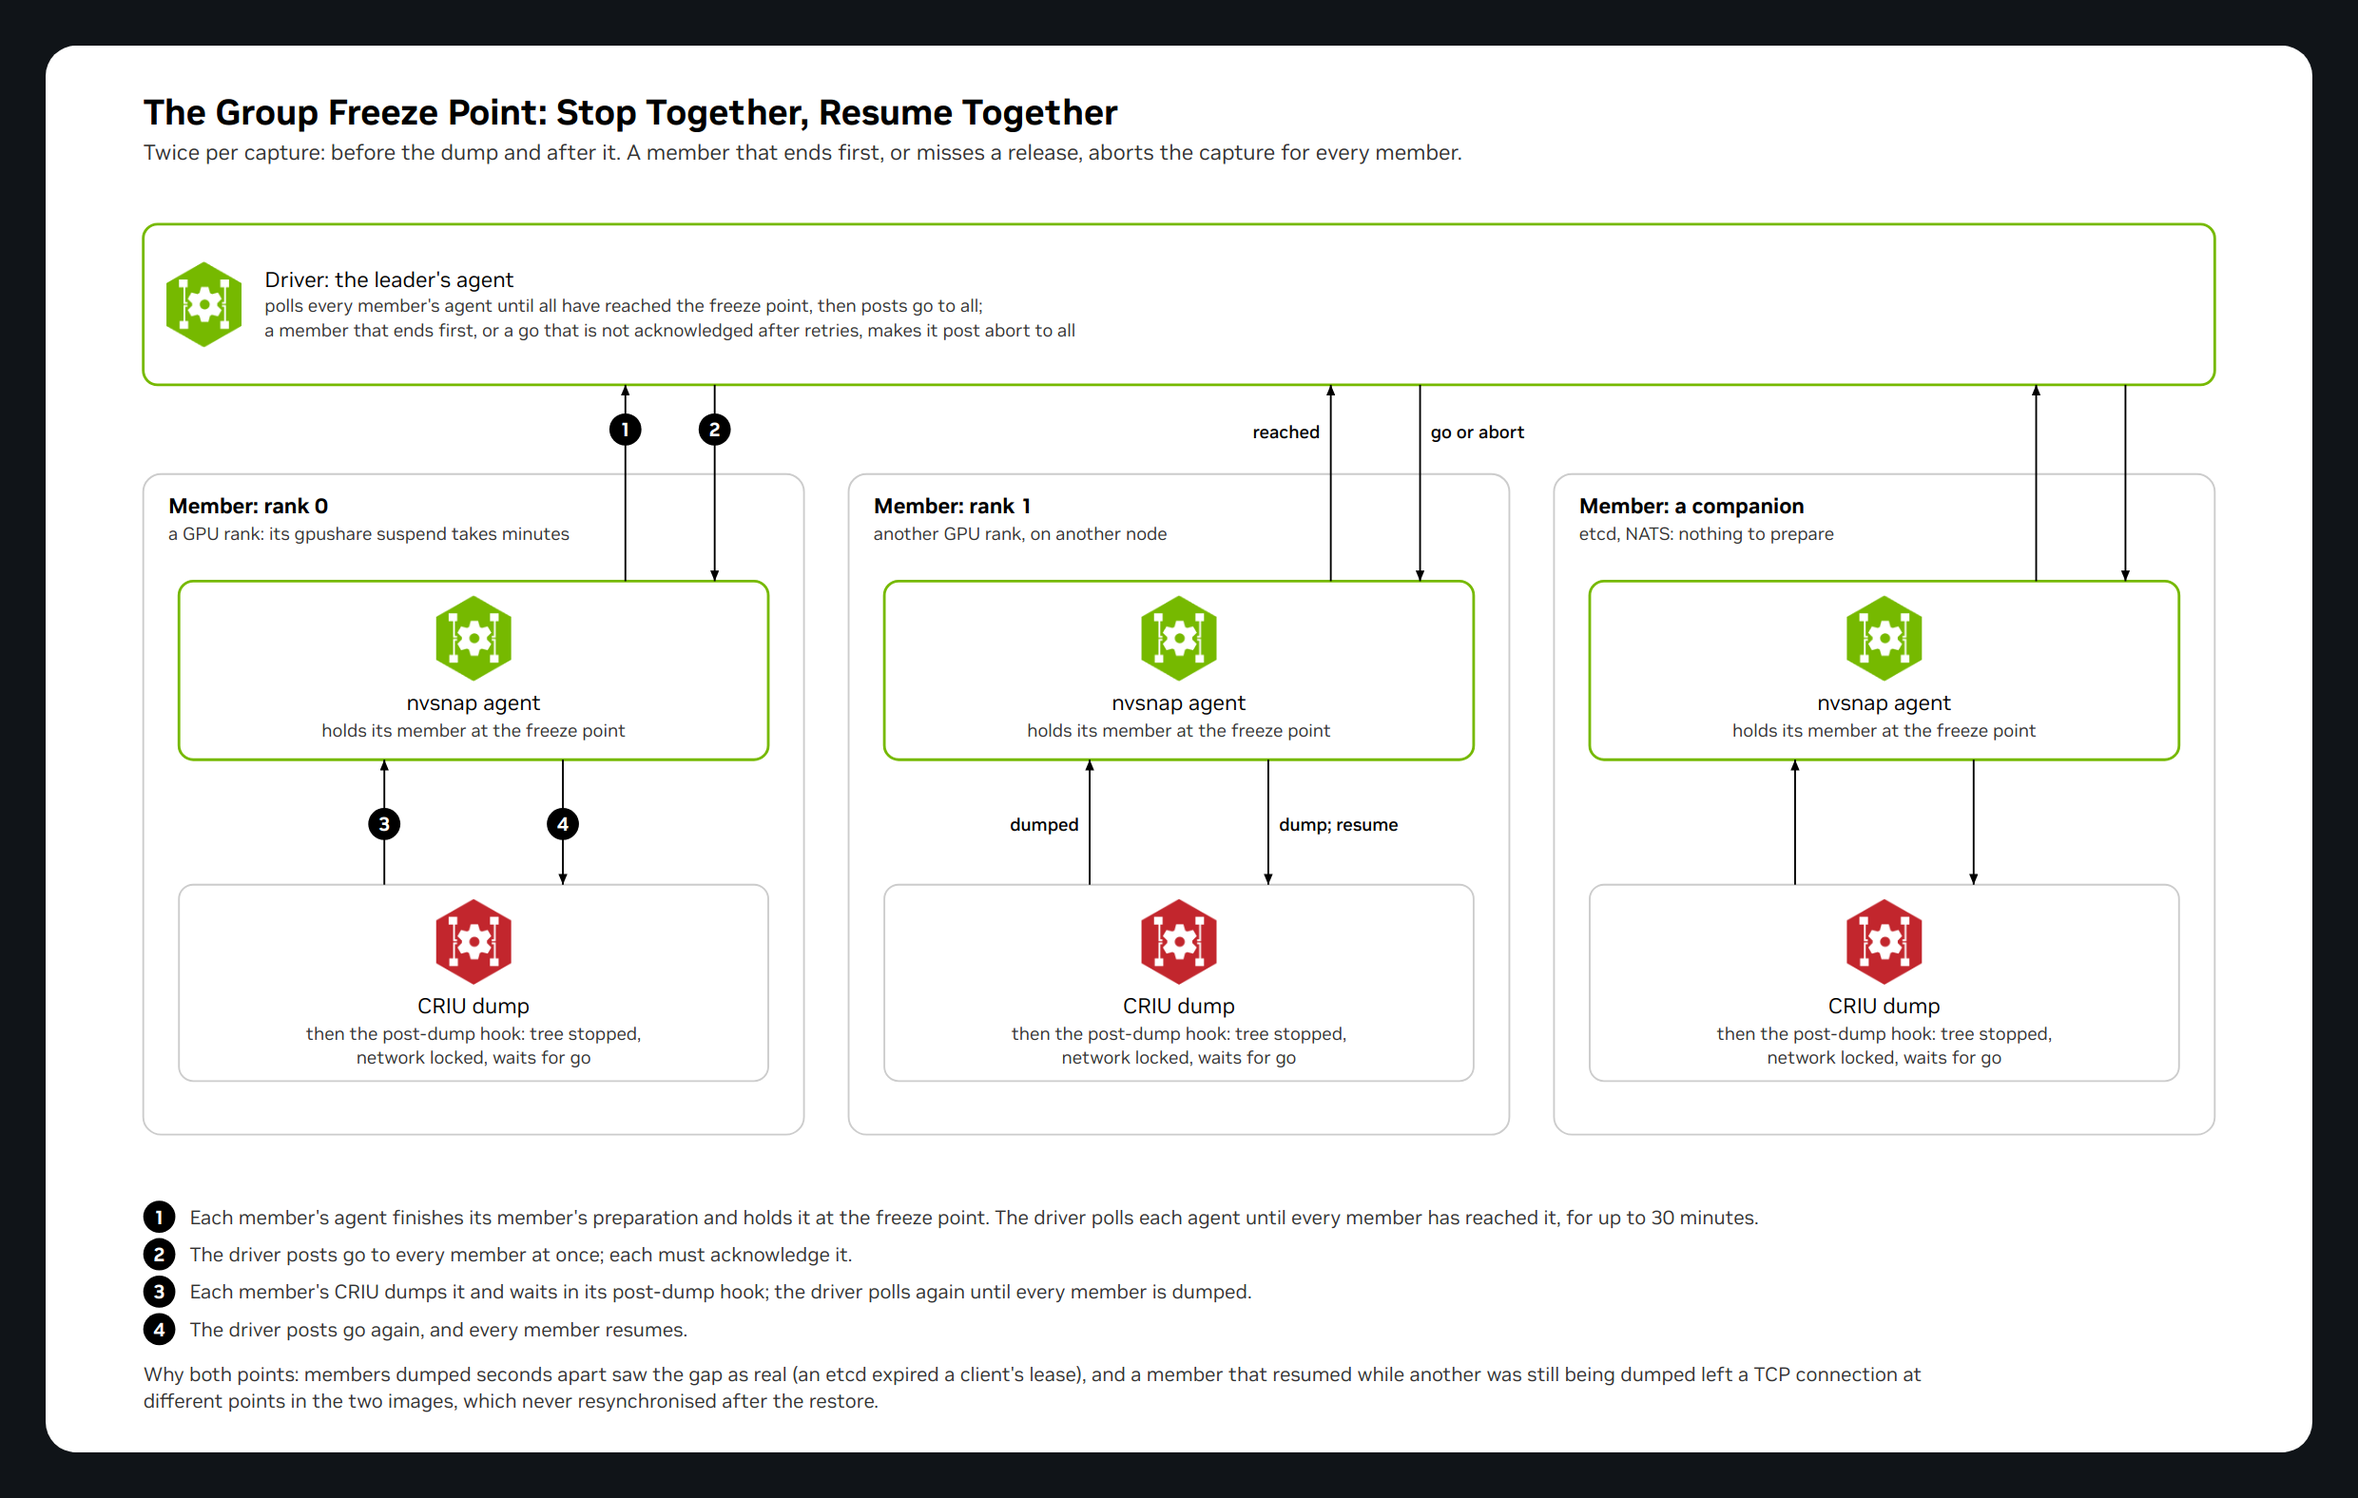
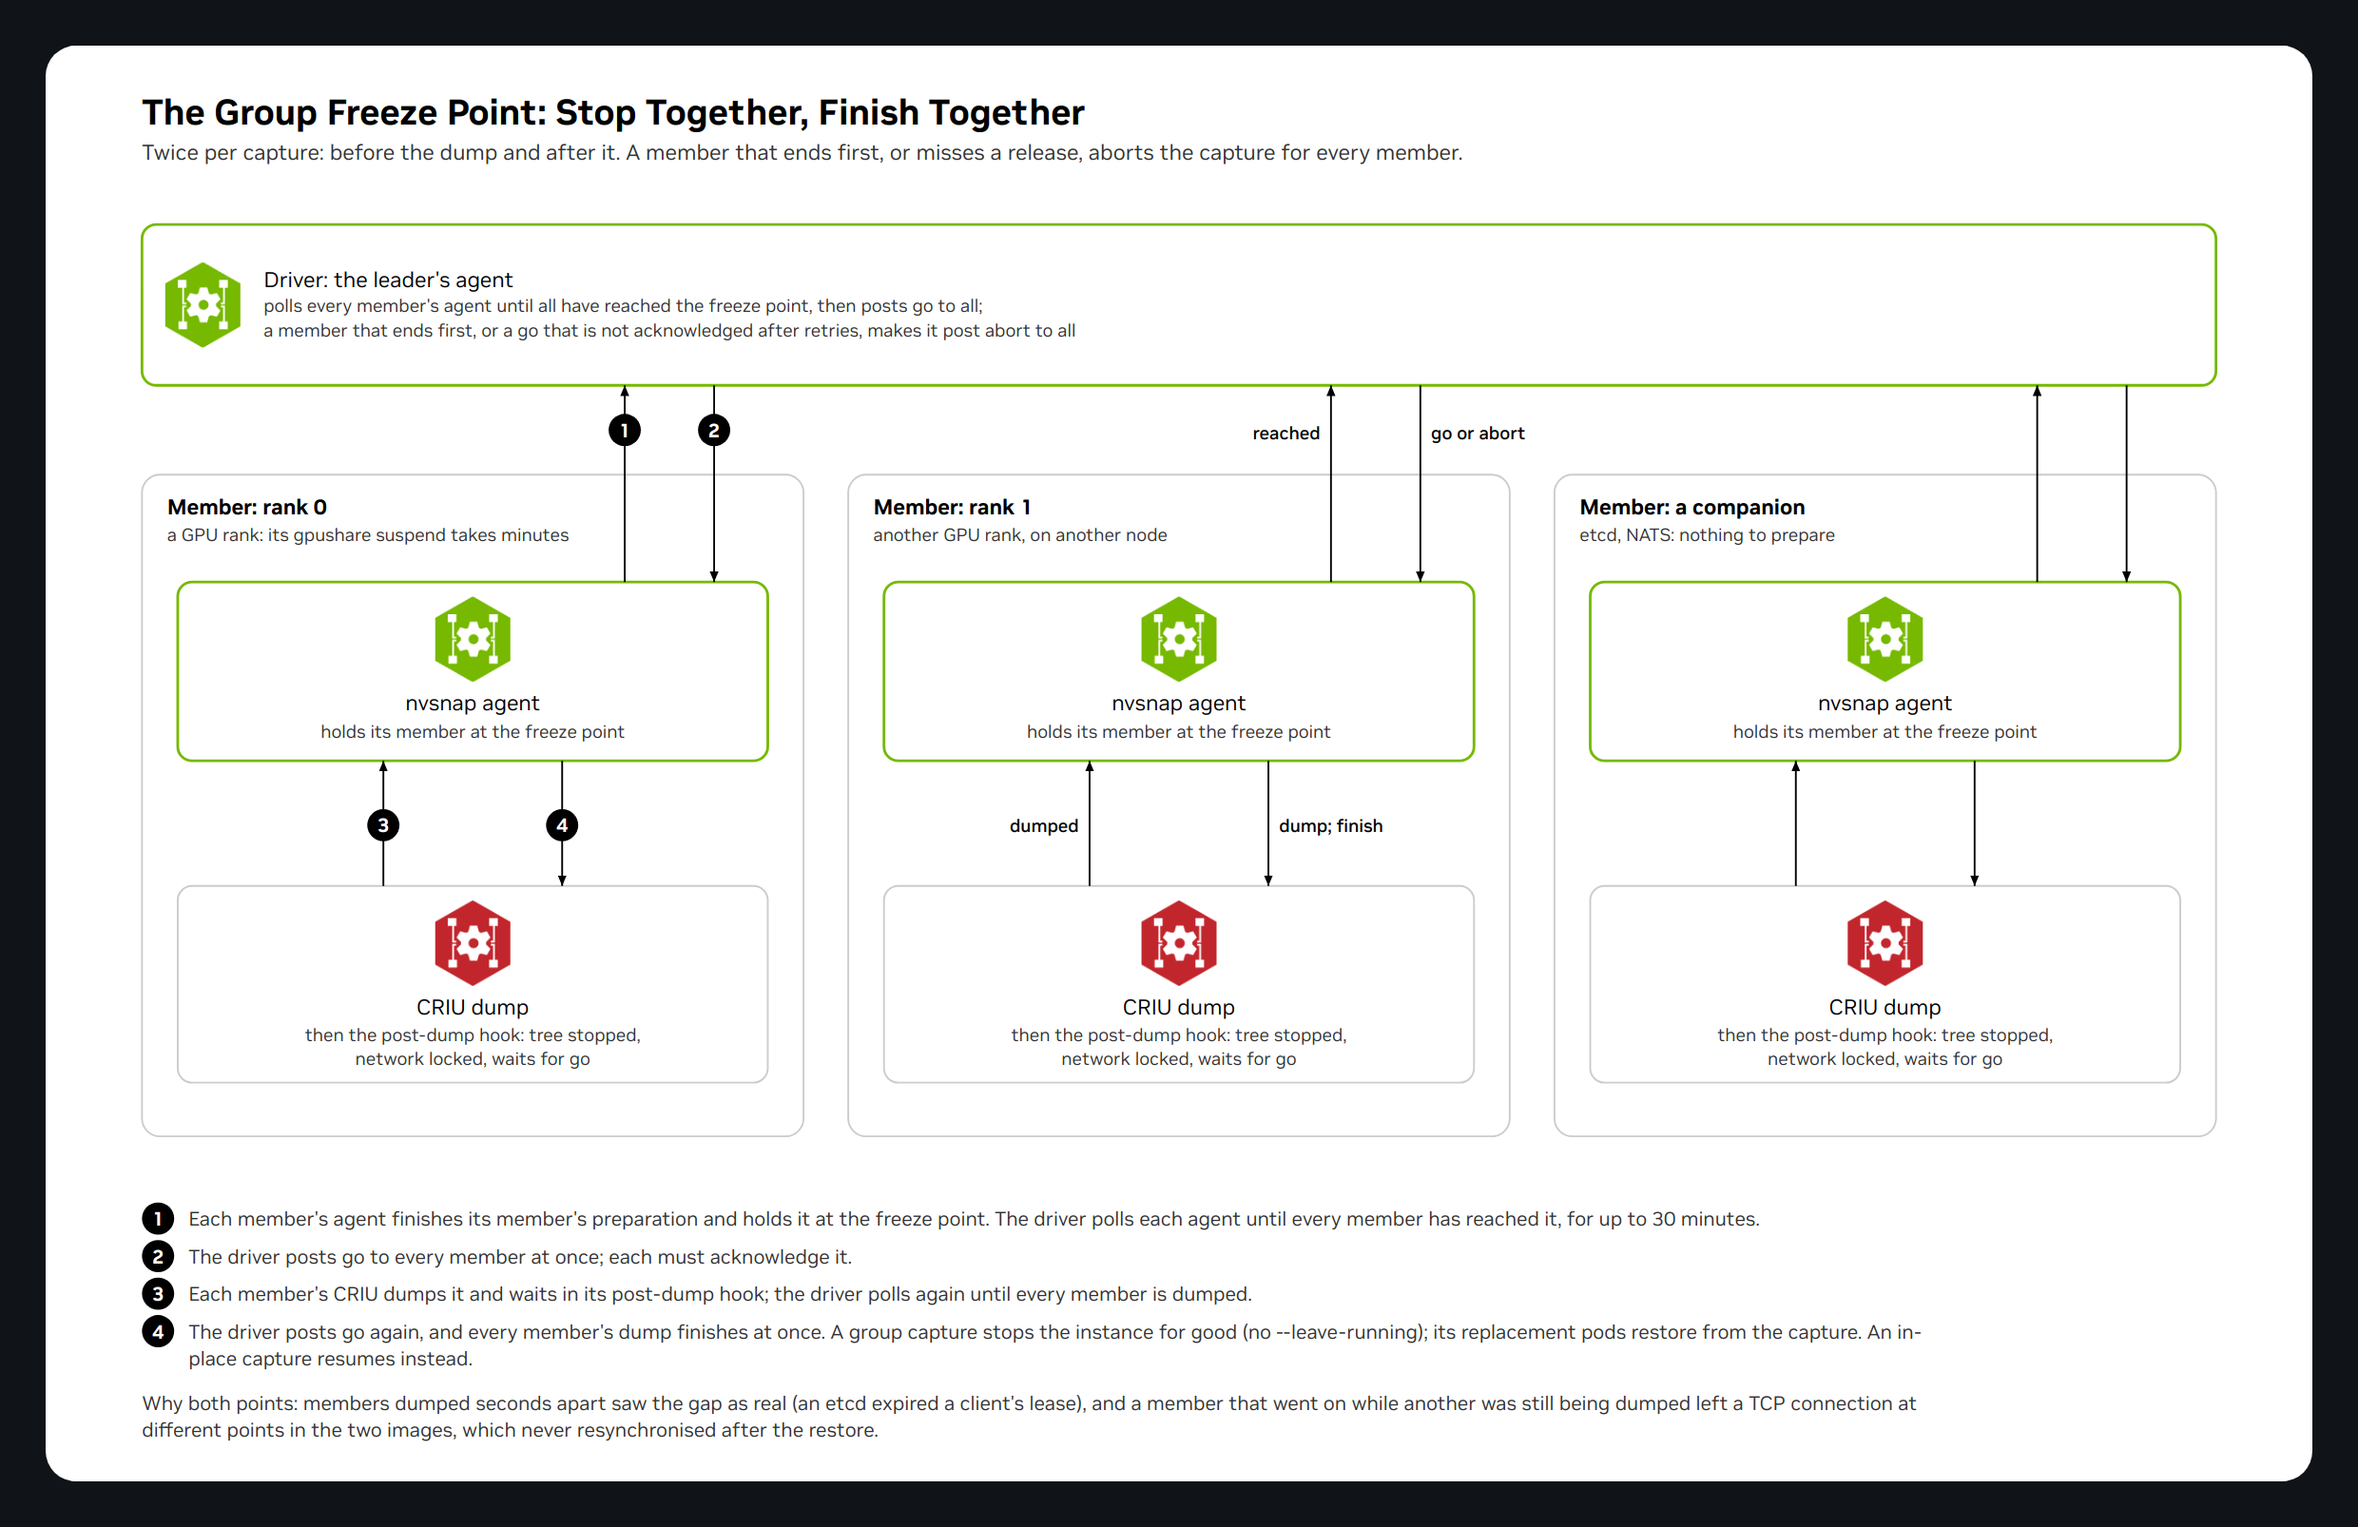
docs(nvsnap): a group capture finishes together, it does not resume
The group-freeze figure and the comment it was drawn from said every
member resumes after the post-dump release. A group capture stops the
instance for good (checkpointInstance: no --leave-running; its pods are
replaced by a restore), so after the release every member's dump
finishes at once; only an in-place capture resumes. The figure and the
comment in group_freeze.go now say both. Comment only; no code change.

diff --git a/src/compute-plane-services/nvsnap/docs/figures/scripts/nvsnap-group-freeze.py b/src/compute-plane-services/nvsnap/docs/figures/scripts/nvsnap-group-freeze.py
@@ -17,7 +17,7 @@ from figlib import Fig  # noqa: E402
 
 f = Fig(
     "nvsnap-group-freeze", 1240, 900,
-    "The Group Freeze Point: Stop Together, Resume Together",
+    "The Group Freeze Point: Stop Together, Finish Together",
     "Each member of a group capture is dumped by its own node's agent after its own preparation. Every member "
     "waits at a freeze point; the leader's agent, the driver, releases them all at once when every member has "
     "arrived, or aborts them all. After the dump, each member's CRIU waits in its post-dump hook with its "
@@ -58,18 +58,19 @@ f.plabel(GX[1] + GW - 106, 220, "reached", anchor="end")
 f.plabel(GX[1] + GW - 44, 220, "go or abort", anchor="start")
 cx = GX[1] + GW // 2
 f.plabel(cx - 56, 440, "dumped", anchor="end")
-f.plabel(cx + 56, 440, "dump; resume", anchor="start")
+f.plabel(cx + 56, 440, "dump; finish", anchor="start")
 
 y = f.legend(40, 660, [
     (1, "Each member's agent finishes its member's preparation and holds it at the freeze point. The driver polls "
         "each agent until every member has reached it, for up to 30 minutes."),
     (2, "The driver posts go to every member at once; each must acknowledge it."),
     (3, "Each member's CRIU dumps it and waits in its post-dump hook; the driver polls again until every member is dumped."),
-    (4, "The driver posts go again, and every member resumes."),
+    (4, "The driver posts go again, and every member's dump finishes at once. A group capture stops the instance for "
+        "good (no --leave-running); its replacement pods restore from the capture. An in-place capture resumes instead."),
 ])
 for i, line in enumerate(textwrap.wrap(
         "Why both points: members dumped seconds apart saw the gap as real (an etcd expired a client's lease), and a "
-        "member that resumed while another was still being dumped left a TCP connection at different points in the "
+        "member that went on while another was still being dumped left a TCP connection at different points in the "
         "two images, which never resynchronised after the restore.", 190)):
     f.note(40, y + 4 + 15 * i, line)
 f.write(y + 4 + 15 * (i + 1) + 10)

diff --git a/src/compute-plane-services/nvsnap/internal/agent/group_freeze.go b/src/compute-plane-services/nvsnap/internal/agent/group_freeze.go
@@ -19,7 +19,9 @@ package agent
 // at different points and the restored connection never resynchronised. So
 // each member's criu also waits in its post-dump hook, its tree still
 // stopped and its network still locked, until every member is dumped; then
-// they all resume.
+// they all go on together: they resume when the capture leaves the instance
+// running, and end when it stops it for good, as a group capture does
+// (checkpointInstance).
 
 import (
 	"context"
